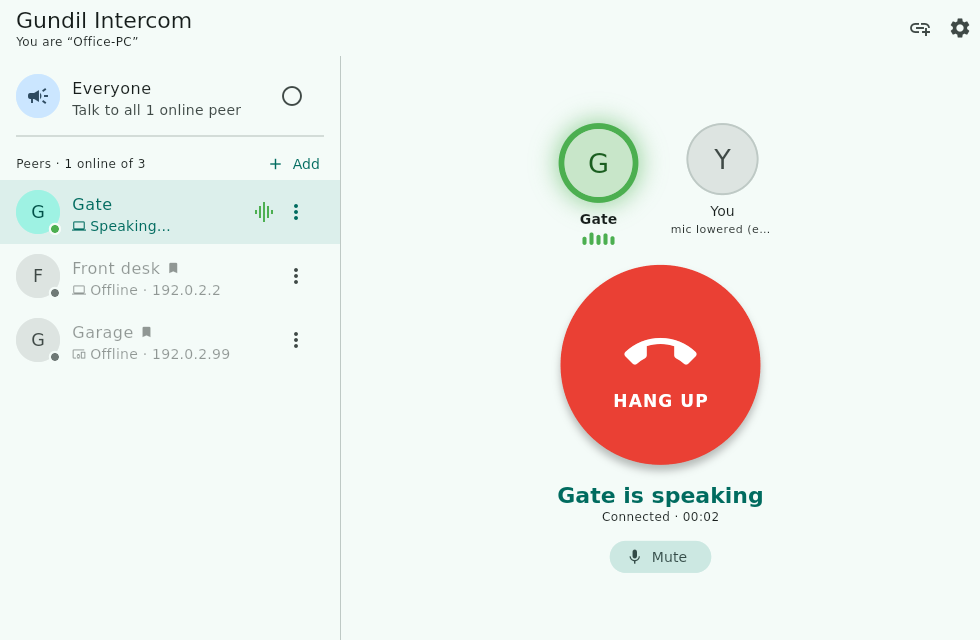
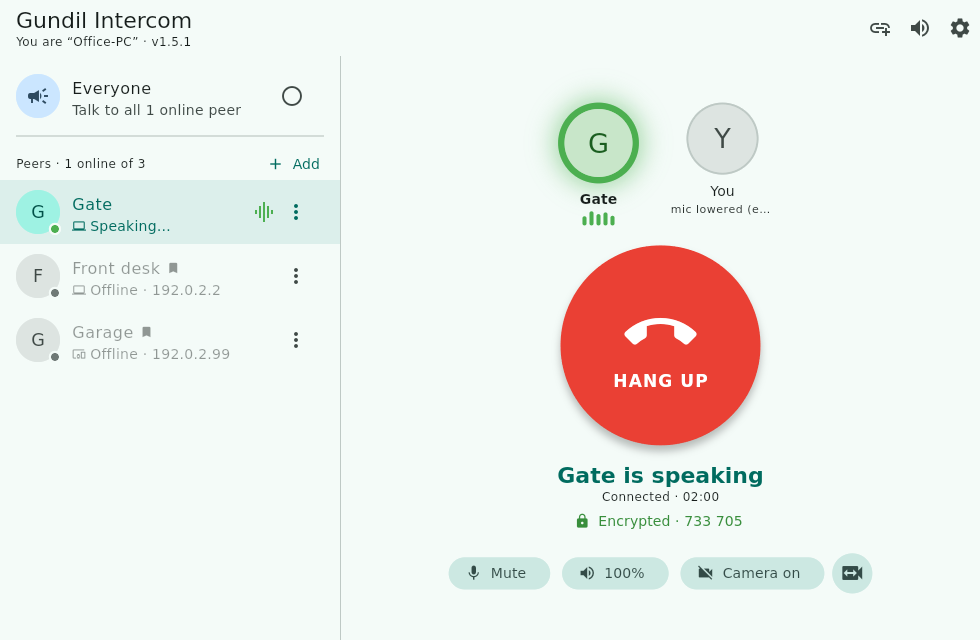
Show the app version; refresh the README screenshot
- appVersion constant (intercom_core), checked against both pubspec.yaml
  files by test/version_test.dart
- Shown in the app bar ("You are "Office-PC" · v1.5.1"), in Settings ->
  This device, and in the node's start-up log line
- Call controls: Mute / volume / camera buttons line up vertically
- docs/screenshot.png: current GUI (encrypted badge, volume, camera,
  version)

Claude-Session: https://claude.ai/code/session_019EX3gDdsrutrxCJT4CBkKt

diff --git a/lib/ui/home_page.dart b/lib/ui/home_page.dart
@@ -276,6 +276,7 @@ class _HomePageState extends State<HomePage> with WidgetsBindingObserver {
                 Text('This device', style: Theme.of(ctx).textTheme.titleSmall),
                 const SizedBox(height: 4),
                 SelectableText(
+                  'Gundil Intercom $appVersion\n'
                   'Addresses: ${addrs.isEmpty ? 'none' : addrs.join(', ')}\n'
                   'TCP port: ${service.listenPort}\n'
                   'Discovery: ${service.discoveryRunning ? 'UDP $discoveryPort broadcast' : 'off'}',
@@ -415,7 +416,7 @@ class _HomePageState extends State<HomePage> with WidgetsBindingObserver {
                     children: [
                       const Text('Gundil Intercom'),
                       Text(
-                        'You are “${service.name}”',
+                        'You are “${service.name}” · v$appVersion',
                         style: Theme.of(context).textTheme.bodySmall,
                       ),
                     ],

diff --git a/test/version_test.dart b/test/version_test.dart
@@ -1,0 +1,15 @@
+import 'dart:io';
+
+import 'package:flutter_test/flutter_test.dart';
+import 'package:p2p_intercom/src/intercom_service.dart';
+
+void main() {
+  test('the version shown in the app matches pubspec.yaml', () {
+    String versionOf(String path) => RegExp(
+      r'^version:\s*([0-9.]+)',
+      multiLine: true,
+    ).firstMatch(File(path).readAsStringSync())!.group(1)!;
+    expect(appVersion, versionOf('pubspec.yaml'));
+    expect(appVersion, versionOf('packages/intercom_core/pubspec.yaml'));
+  });
+}

diff --git a/lib/ui/intercom_panel.dart b/lib/ui/intercom_panel.dart
@@ -224,7 +224,9 @@ class IntercomPanel extends StatelessWidget {
         SizedBox(height: compact ? 8 : 16),
         Wrap(
           spacing: 12,
+          runSpacing: 8,
           alignment: WrapAlignment.center,
+          crossAxisAlignment: WrapCrossAlignment.center,
           children: [
             FilledButton.tonalIcon(
               onPressed: service.toggleMute,

diff --git a/packages/intercom_core/bin/gundil_node.dart b/packages/intercom_core/bin/gundil_node.dart
@@ -83,7 +83,7 @@ Future<void> main(List<String> args) async {
 
   await core.start();
   log(
-    'Gundil Intercom node "$name" listening on TCP ${core.listenPort}, '
+    'Gundil Intercom node $appVersion "$name" listening on TCP ${core.listenPort}, '
     'discovery ${core.discoveryRunning ? 'on' : 'OFF'}',
   );
 

diff --git a/packages/intercom_core/lib/intercom_core.dart b/packages/intercom_core/lib/intercom_core.dart
@@ -10,5 +10,6 @@ export 'src/models.dart';
 export 'src/native_audio_bindings.dart' show IntercomAudio, AudioException;
 export 'src/peer_connection.dart';
 export 'src/protocol.dart';
+export 'src/version.dart';
 export 'src/secure_channel.dart'
     show networkSecret, KeyExchangeException, sealOverhead;

diff --git a/packages/intercom_core/lib/src/version.dart b/packages/intercom_core/lib/src/version.dart
@@ -1,0 +1,3 @@
+/// The app version, shown in the app and logged by the node. Keep it equal
+/// to `version:` in pubspec.yaml (test/version_test.dart checks this).
+const String appVersion = '1.5.1';
